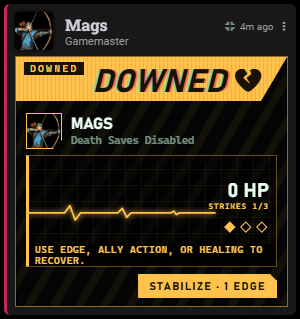
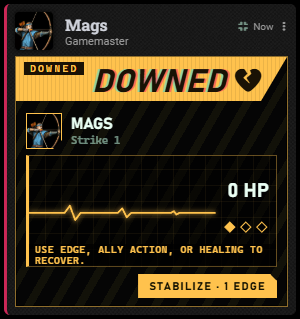
Downed and Flatline say which Strike, not the posted title
Under the name: "Strike 1" (Flatline "Strike 3") instead of "Death Saves
Disabled"; the scope keeps the pips without repeating the count. The docs
say the sample roll is a typed chat roll.

diff --git a/scripts/hardwipe-message-cards.js b/scripts/hardwipe-message-cards.js
@@ -107,7 +107,6 @@ function survivalCard(message, element, card, kind) {
   const actor = game.actors.get(message.flags?.[MODULE_ID]?.actorId) ?? ChatMessage.implementation.getSpeakerActor?.(message.speaker);
   const text = selector => card.querySelector(selector)?.textContent.trim() ?? "";
   const kicker = text(":scope > .hardwipe-chat-kicker") || t(`Survival.${kind}.Kicker`);
-  const title = text(":scope > .hardwipe-chat-title");
   const subtitle = text(":scope > .hardwipe-chat-subtitle");
   const strikes = kind === "flatlined" ? 3 : Math.max(0, Math.min(3, Number(actor?.getFlag?.(MODULE_ID, "strikes")) || 0));
   const pips = [0, 1, 2].map(i => `<rect class="hwe-spip${i < strikes ? " is-on" : ""}" x="${i * 18}" y="4" width="8" height="8" transform="rotate(45 ${i * 18 + 4} 8)"/>`).join("");
@@ -116,17 +115,17 @@ function survivalCard(message, element, card, kind) {
         <rect class="hwe-charge hwe-drain" x="46" y="32" width="138" height="32"/><text class="hwe-plus is-spent hwe-pop" x="115" y="49">${escapeHTML(t("Survival.edge.Minus"))}</text>
         <path class="hwe-arc is-dim" d="M236 18 L222 50 L234 50 L224 80"/></svg>`
     : `<svg viewBox="0 0 278 96" aria-hidden="true"><polyline class="hwe-ecg hwe-draw" points="${TRACES[kind]}"/>
-        <text class="hwe-big hwe-pop" x="270" y="40">${escapeHTML(t(`Survival.${kind}.Big`))}</text><text class="hwe-small" x="270" y="54">${escapeHTML(t("Survival.Strikes", { n: strikes }))}</text>
+        <text class="hwe-big hwe-pop" x="270" y="40">${escapeHTML(t(`Survival.${kind}.Big`))}</text>
         <g transform="translate(222 66)">${pips}</g></svg>`;
   const canStabilize = kind === "downed" && actor && canControlActor(actor) && EdgeManager.get(actor) > 0 && strikes < 3 && !actor.statuses?.has("dead")
     && (DownedManager.isDowned(actor) || Number(actor.system?.attributes?.hp?.value) <= 0);
   const content = card.parentElement;
   const holder = document.createElement("div");
   holder.innerHTML = cutInHTML({
-    // The band keeps one short word; what was posted as the title reads under the name.
+    // The band says what happened; under the name, just which Strike this is.
     cls: `is-${kind} is-survival`, kicker, use: t(`Survival.${kind}.Use`),
     img: escapeHTML(actor?.img ?? "icons/svg/mystery-man.svg"), name: escapeHTML(actor?.name ?? message.speaker?.alias ?? ""),
-    sub: kind === "edge" ? subtitle : title && title.toLocaleLowerCase() !== t(`Survival.${kind}.Use`).toLocaleLowerCase() ? title : t(`Survival.${kind}.Sub`), stage,
+    sub: kind === "edge" ? subtitle : strikes ? t("Survival.Strike", { n: strikes }) : "", stage,
     line: kind === "edge" ? t("Survival.edge.Line") : subtitle,
     cell: kind === "edge" ? `<span class="hwe-cell"><i></i>0/1</span>` : "",
     icon: `<i class="hwe-icon fas ${SYSTEM_ICONS[kind]}" inert></i>`,

diff --git a/docs/Cards.md b/docs/Cards.md
@@ -229,15 +229,15 @@ Completing the rest posts one combined receipt. Closing early produces an incomp
 
 <a href="media/roll-formula-current.png"><img src="media/roll-formula-current.png" alt="Roll card: Shotgun spread, 2d6 + 3, dice 2 and 4, plus 3, total 9" width="260"></a>
 
-*2026-10-18.* A formula roll, a Hit Die, Hit Points or a recharge shows its dice as chips under the title (a die's top face lit, a 1 in red), with the total below; the total still opens the full breakdown.
+*2026-10-18, a roll typed in chat: `/r 2d6 + 3 # Shotgun spread` (no item; the title is the label after `#`).* A formula roll, a Hit Die, Hit Points or a recharge shows its dice as chips under the title (a die's top face lit, a 1 in red), with the total below; the total still opens the full breakdown.
 
 ## Edge, Strikes, and Downed
 
 <table>
   <tr>
     <td valign="top"><a href="media/system-edge-current.png"><img src="media/system-edge-current.png" alt="Spent card: Juno, Edge spent, a cell draining to empty, Edge 0 of 1" width="250"></a><br><strong>Edge spent (2026-10-18)</strong><br>Just spend, with no play: the cell drains.</td>
-    <td valign="top"><a href="media/system-downed-current.png"><img src="media/system-downed-current.png" alt="Downed card: Mags at 0 HP, Strikes 1 of 3, Use Edge, ally action, or healing to recover, Stabilize 1 Edge" width="250"></a><br><strong>Downed (2026-10-18)</strong><br>A pulse that falters, the Strikes so far; Stabilize for its owner while they hold Edge.</td>
-    <td valign="top"><a href="media/system-flatline-current.png"><img src="media/system-flatline-current.png" alt="Flatline card: Juno dead, a trace that stops, no pulse, Strikes 3 of 3" width="250"></a><br><strong>Flatline (2026-10-18)</strong><br>Two beats, then nothing: Strikes 3/3.</td>
+    <td valign="top"><a href="media/system-downed-current.png"><img src="media/system-downed-current.png" alt="Downed card: Mags, Strike 1, 0 HP, Use Edge, ally action, or healing to recover, Stabilize 1 Edge" width="250"></a><br><strong>Downed (2026-10-18)</strong><br>A pulse that falters and which Strike this is; Stabilize for its owner while they hold Edge.</td>
+    <td valign="top"><a href="media/system-flatline-current.png"><img src="media/system-flatline-current.png" alt="Flatline card: Juno dead, a trace that stops, no pulse, Strikes 3 of 3" width="250"></a><br><strong>Flatline (2026-10-18)</strong><br>Two beats, then nothing: Strike 3.</td>
   </tr>
 </table>
 

diff --git a/docs/Media.md b/docs/Media.md
@@ -184,13 +184,13 @@ Captured on **2026-10-18** in the disposable QA world: three Heavy Pistol attack
 
 ## Chat card captures
 
-Captured on **2026-10-18** in the disposable QA world: Edge spent with no play (Juno), the Downed card from a death save at 0 HP (Mags, holding Edge), Flatline at three Strikes (Juno), and a `2d6 + 3` roll.
+Captured on **2026-10-18** in the disposable QA world: Edge spent with no play (Juno), the Downed card from a death save at 0 HP (Mags, holding Edge), Flatline at three Strikes (Juno), and a roll typed in chat, `/r 2d6 + 3 # Shotgun spread` (no item behind it).
 
 | Published file | Subject |
 | --- | --- |
 | [system-edge-current.png](media/system-edge-current.png) | Spent: the cell drains, Edge 0/1. |
-| [system-downed-current.png](media/system-downed-current.png) | Downed: 0 HP, Strikes 1/3, Stabilize · 1 Edge. |
-| [system-flatline-current.png](media/system-flatline-current.png) | Flatline: no pulse, Strikes 3/3. |
+| [system-downed-current.png](media/system-downed-current.png) | Downed: Strike 1, 0 HP, Stabilize · 1 Edge. |
+| [system-flatline-current.png](media/system-flatline-current.png) | Flatline: Strike 3, no pulse. |
 | [roll-formula-current.png](media/roll-formula-current.png) | Shotgun spread: dice 2 and 4, + 3, total 9. |
 
 ## Edge captures
